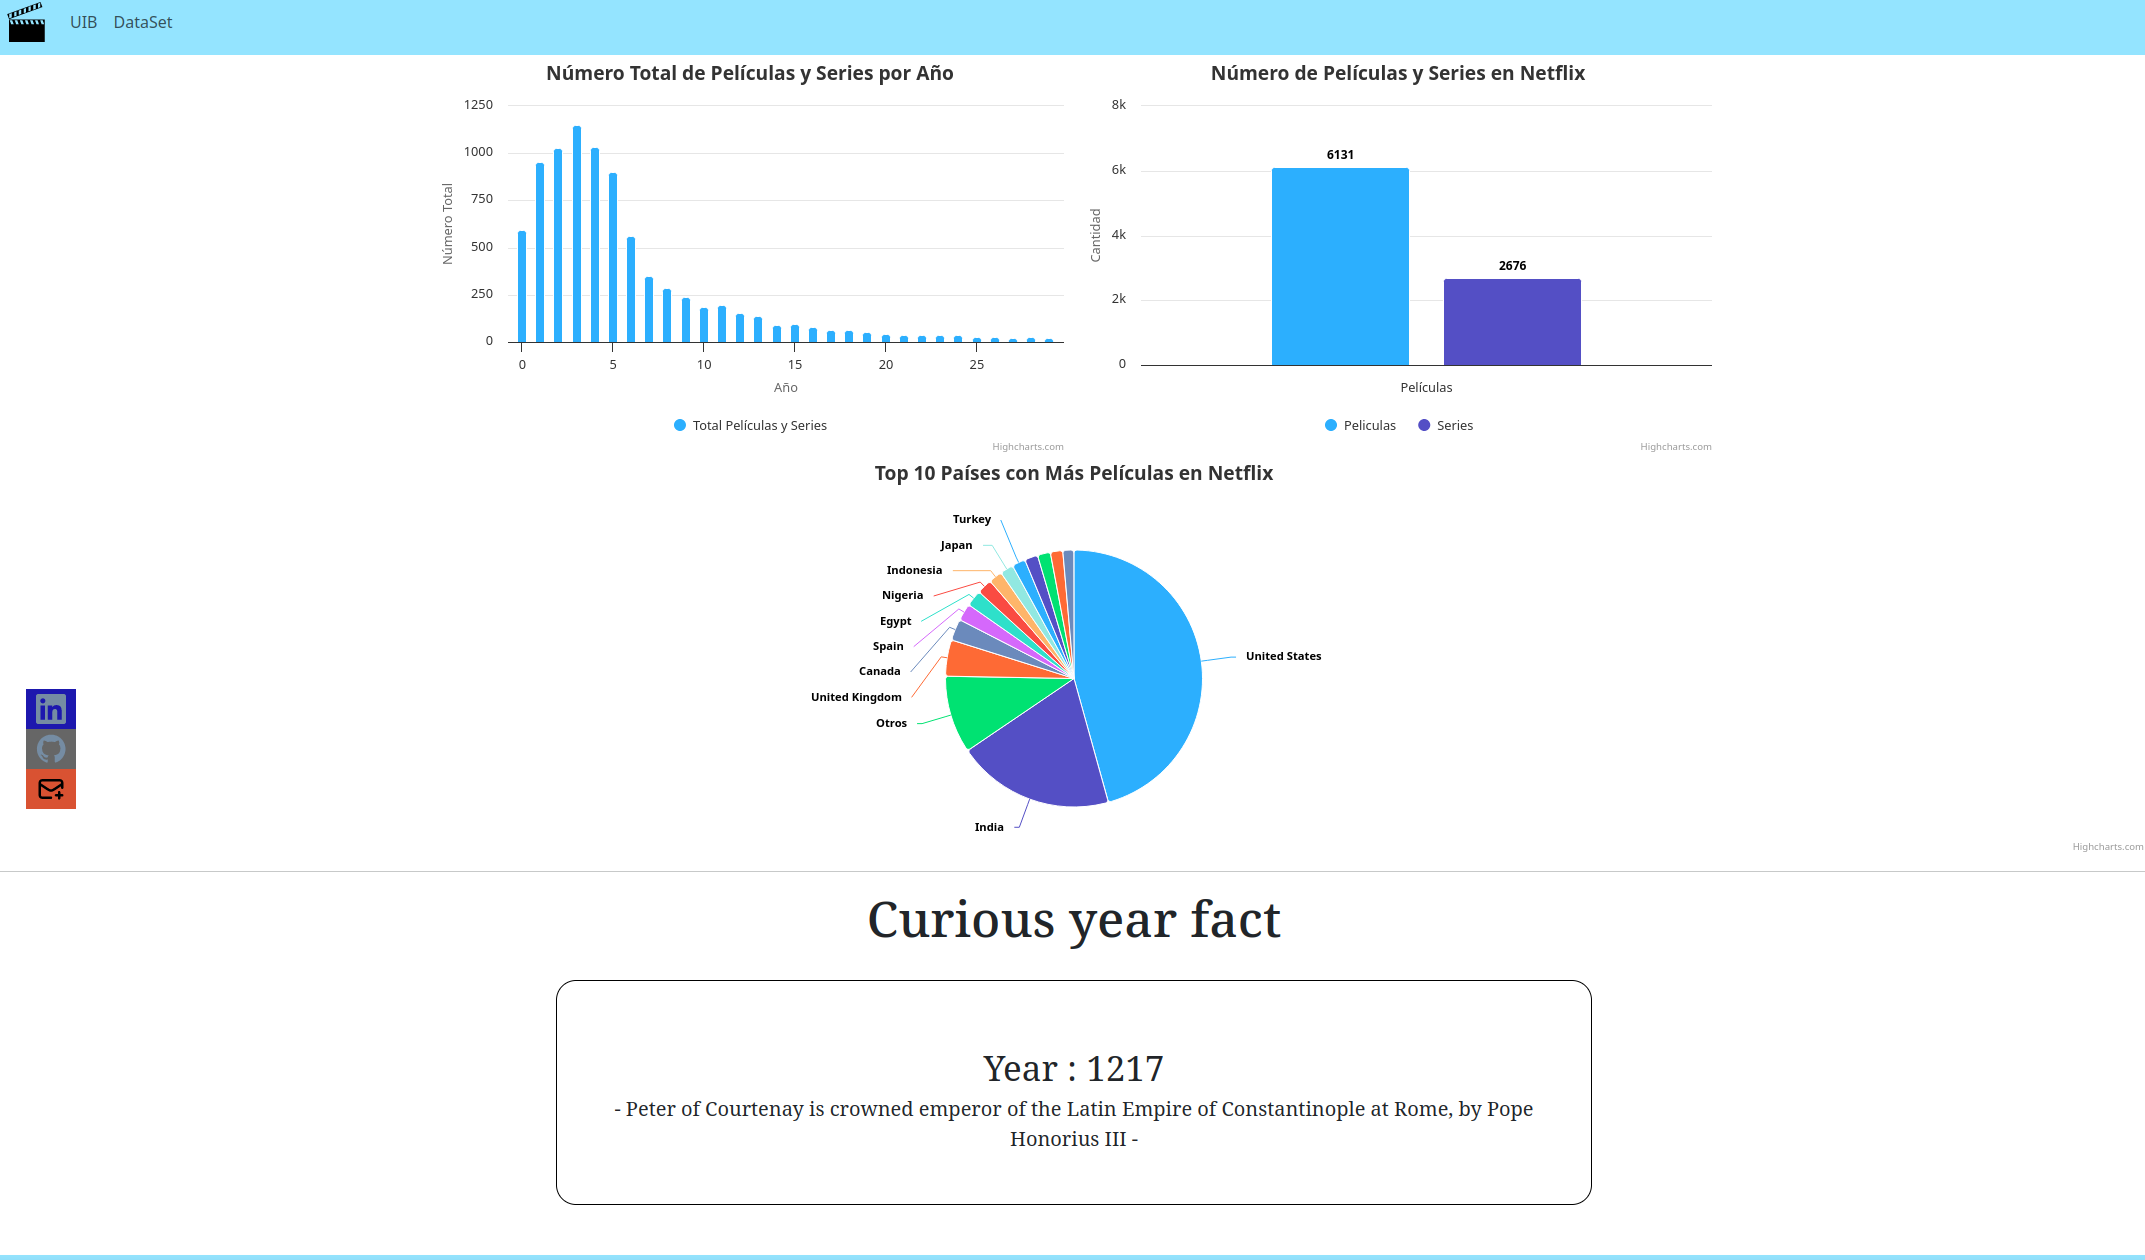
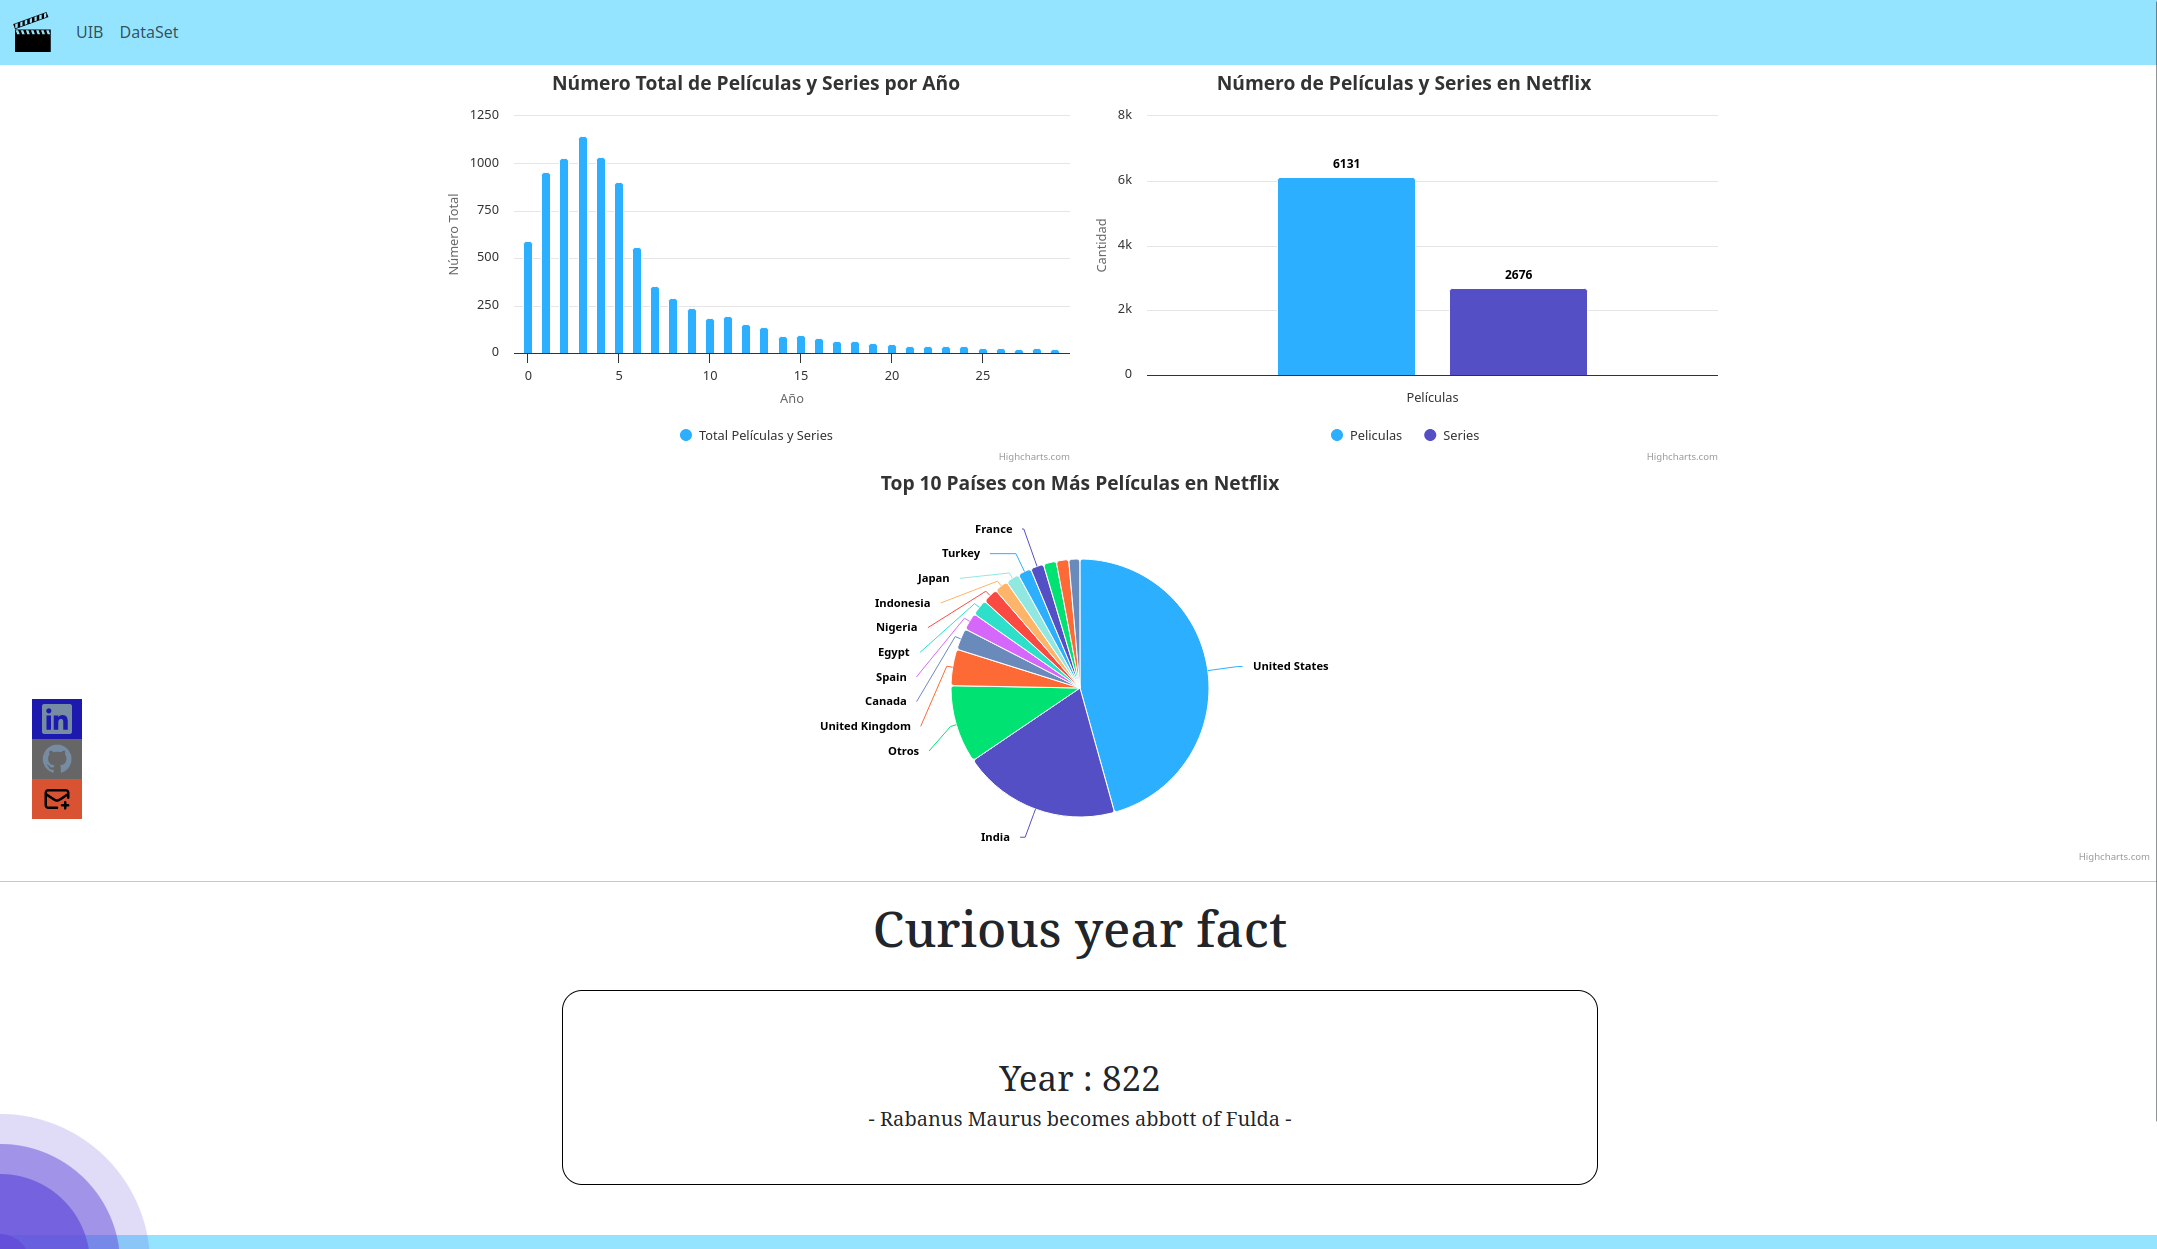
Acabado

diff --git a/css/style.css b/css/style.css
@@ -1,3 +1,6 @@
+/*-------------------------------------------------------------------
+                Relacionado con las gráficas
+-------------------------------------------------------------------*/
 .container {
     display: flex;
     flex-direction: row;
@@ -8,6 +11,9 @@
     margin: 10px;
 }
 
+/*-------------------------------------------------------------------
+                        Pie de pagina
+-------------------------------------------------------------------*/
 .footer {
     left: 0;
     bottom: 0;
@@ -15,9 +21,12 @@
     background-color: rgb(148, 228, 255);
     color: grey;
     text-align: right;
-    height: 1.5rem;  
-  }
+    height: 1.5rem;
+}
 
+/*-------------------------------------------------------------------
+                    Relacionado con la API
+-------------------------------------------------------------------*/
 .quoteContainer {
     display: flex;
     flex-direction: column;
@@ -48,14 +57,14 @@
     font-size: 20px;
 }
 
+/*-------------------------------------------------------------------
+        Relacionado con los botones de las redes sociales
+-------------------------------------------------------------------*/
 .social {
     position: absolute;
-    /* Hacemos que la posición en pantalla sea fija para que siempre se muestre en pantalla*/
     left: 0;
-    /* Establecemos la barra en la izquierda */
     top: 700px;
     z-index: 2000;
-    /* Utilizamos la propiedad z-index para que no se superponga algún otro elemento como sliders, galerías, etc */
 }
 
 .social ul {
@@ -71,7 +80,6 @@
     -webkit-transition: all 500ms ease;
     -o-transition: all 500ms ease;
     transition: all 500ms ease;
-    /* Establecemos una transición a todas las propiedades */
 }
 
 .social ul li .orange {
@@ -88,7 +96,5 @@
 
 .social ul li a:hover {
     background: #c0bcbc22;
-    /* Cambiamos el fondo cuando el usuario pase el mouse */
     padding: 10px 30px;
-    /* Hacemos mas grande el espacio cuando el usuario pase el mouse */
 }

diff --git a/css/background.css b/css/background.css
@@ -1,82 +1,76 @@
+.circle {
+  position: absolute;
+  border-radius: 50%;
+  background: rgb(98, 77, 217);
+  animation: ripple 15s infinite;
+  box-shadow: 0px 0px 1px 0px #508fb9;
+}
 
-  
-  
-  .circle{
-    position: absolute;
-    border-radius: 50%;
-    background: rgb(98, 77, 217);
-    animation: ripple 15s infinite;
-    box-shadow: 0px 0px 1px 0px #508fb9;
+.small {
+  width: 200px;
+  height: 200px;
+  left: -100px;
+  bottom: -100px;
+}
+
+.medium {
+  width: 400px;
+  height: 400px;
+  left: -200px;
+  bottom: -200px;
+}
+
+.large {
+  width: 600px;
+  height: 600px;
+  left: -300px;
+  bottom: -300px;
+}
+
+.xlarge {
+  width: 800px;
+  height: 800px;
+  left: -400px;
+  bottom: -400px;
+}
+
+.xxlarge {
+  width: 1000px;
+  height: 1000px;
+  left: -500px;
+  bottom: -500px;
+}
+
+.shade1 {
+  opacity: 0.2;
+}
+
+.shade2 {
+  opacity: 0.5;
+}
+
+.shade3 {
+  opacity: 0.7;
+}
+
+.shade4 {
+  opacity: 0.8;
+}
+
+.shade5 {
+  opacity: 0.9;
+}
+
+@keyframes ripple {
+  0% {
+    transform: scale(0.4);
   }
-  
-  .small{
-    width: 200px;
-    height: 200px;
-    left: -100px;
-    bottom: -100px;
+
+  50% {
+    transform: scale(0.8);
   }
-  
-  .medium{
-    width: 400px;
-    height: 400px;
-    left: -200px;
-    bottom: -200px;
+
+  100% {
+    transform: scale(0.3);
   }
-  
-  .large{
-    width: 600px;
-    height: 600px;
-    left: -300px;
-    bottom: -300px;
-  }
-  
-  .xlarge{
-    width: 800px;
-    height: 800px;
-    left: -400px;
-    bottom: -400px;
-  }
-  
-  .xxlarge{
-    width: 1000px;
-    height: 1000px;
-    left: -500px;
-    bottom: -500px;
-  }
-  
-  .shade1{
-    opacity: 0.2;
-  }
-  .shade2{
-    opacity: 0.5;
-  }
-  
-  .shade3{
-    opacity: 0.7;
-  }
-  
-  .shade4{
-    opacity: 0.8;
-  }
-  
-  .shade5{
-    opacity: 0.9;
-  }
-  
-  @keyframes ripple{
-    0%{
-      transform: scale(0.4);
-    }
-    
-    50%{
-      transform: scale(0.8);
-    }
-    
-    100%{
-      transform: scale(0.3);
-    }
-  }
-  
-  
-  
-  
+}

diff --git a/README.md b/README.md
@@ -94,8 +94,174 @@ Para acabar representamos la información recogida de la petición por pantalla 
 
 Se han añadido unos botones interactivos que al ser clickados llevan al usuario a nuestros perfiles de LinkedIn, GitHub y también pueden mandarnos un mail. 
 
-<img src="readMeFiles/social.png">
+Mediante el siguiente código CSS, se ha podido hacer que los botones estén en una posición absoluta en la pagina y tengan animaciones al momento de poner el ratón encima de dichos botones:
 
+```
+.social {
+    position: absolute;
+    left: 0;
+    top: 700px;
+    z-index: 2000;
+}
+
+.social ul {
+    list-style: none;
+}
+
+.social ul li a {
+    display: inline-block;
+    color: #fff;
+    background: #000;
+    padding: 5px 10px;
+    text-decoration: none;
+    -webkit-transition: all 500ms ease;
+    -o-transition: all 500ms ease;
+    transition: all 500ms ease;
+}
+
+.social ul li .orange {
+    background: #d95232;
+}
+
+.social ul li .blue {
+    background: #1d18ae;
+}
+
+.social ul li .grey {
+    background: #666666;
+}
+
+.social ul li a:hover {
+    background: #c0bcbc22;
+    padding: 10px 30px;
+}
+```
+
+Además, en el código de nuestra página en HTML se añade lo siguiente:
+
+```
+<div class="social">
+        <ul>
+            <li><a href="https://www.linkedin.com/in/constantino-byelov-serdiuk-37232a87/" target="_blank"
+                    class="blue"><img src="media/linkedin-svgrepo-com.svg" width="30" height="30" alt=""></a>
+            </li>
+            <li><a href="https://github.com/constantinoby" onclick="window.open('https://github.com/JJMari');
+                return true;" target="_blank" class="grey"><img src="media/github-svgrepo-com.svg" width="30"
+                        height="30" alt=""></a>
+            </li>
+            <li><a href="mailto:csbyelov@gmail.com, marijuanjo249@gmail.com" class="orange"><img
+                        src="media/mail-plus-svgrepo-com.svg" width="30" height="30" alt=""></a></li>
+        </ul>
+    </div>
+```
+
+Como resultado principal el conjunto nos da los botones que podemos ver a continuación: 
+
+<p align="center">
+  <img src="readMeFiles/social.png">
+</p>
+
+### Fondo animado
+
+Se ha hecho un fondo animado en CSS.
+
+CSS:
+```
+.circle {
+  position: absolute;
+  border-radius: 50%;
+  background: rgb(98, 77, 217);
+  animation: ripple 15s infinite;
+  box-shadow: 0px 0px 1px 0px #508fb9;
+}
+
+.small {
+  width: 200px;
+  height: 200px;
+  left: -100px;
+  bottom: -100px;
+}
+
+.medium {
+  width: 400px;
+  height: 400px;
+  left: -200px;
+  bottom: -200px;
+}
+
+.large {
+  width: 600px;
+  height: 600px;
+  left: -300px;
+  bottom: -300px;
+}
+
+.xlarge {
+  width: 800px;
+  height: 800px;
+  left: -400px;
+  bottom: -400px;
+}
+
+.xxlarge {
+  width: 1000px;
+  height: 1000px;
+  left: -500px;
+  bottom: -500px;
+}
+
+.shade1 {
+  opacity: 0.2;
+}
+
+.shade2 {
+  opacity: 0.5;
+}
+
+.shade3 {
+  opacity: 0.7;
+}
+
+.shade4 {
+  opacity: 0.8;
+}
+
+.shade5 {
+  opacity: 0.9;
+}
+
+@keyframes ripple {
+  0% {
+    transform: scale(0.4);
+  }
+
+  50% {
+    transform: scale(0.8);
+  }
+
+  100% {
+    transform: scale(0.3);
+  }
+}
+```
+
+
+HTML:
+```
+  <div class="ripple-background">
+        <div class="circle xxlarge shade1"></div>
+        <div class="circle xlarge shade2"></div>
+        <div class="circle large shade3"></div>
+        <div class="circle mediun shade4"></div>
+        <div class="circle small shade5"></div>
+    </div>
+```
+
+Como resultado sale:
+
+![](animacion.gif)
 
 ## Dificultades e Intereses
+Una de las mayores dificultades ha sido manipular los datos mediante JavaScript de la base de datos para que el Highchart pueda entenderlos y representarlos graficamente.
 
+Este proyecto proporcionó una oportunidad invaluable para el aprendizaje continuo. La necesidad de integrar nuevas tecnologías y abordar problemas específicos del dominio nos impulsó a adquirir conocimientos adicionales. 
